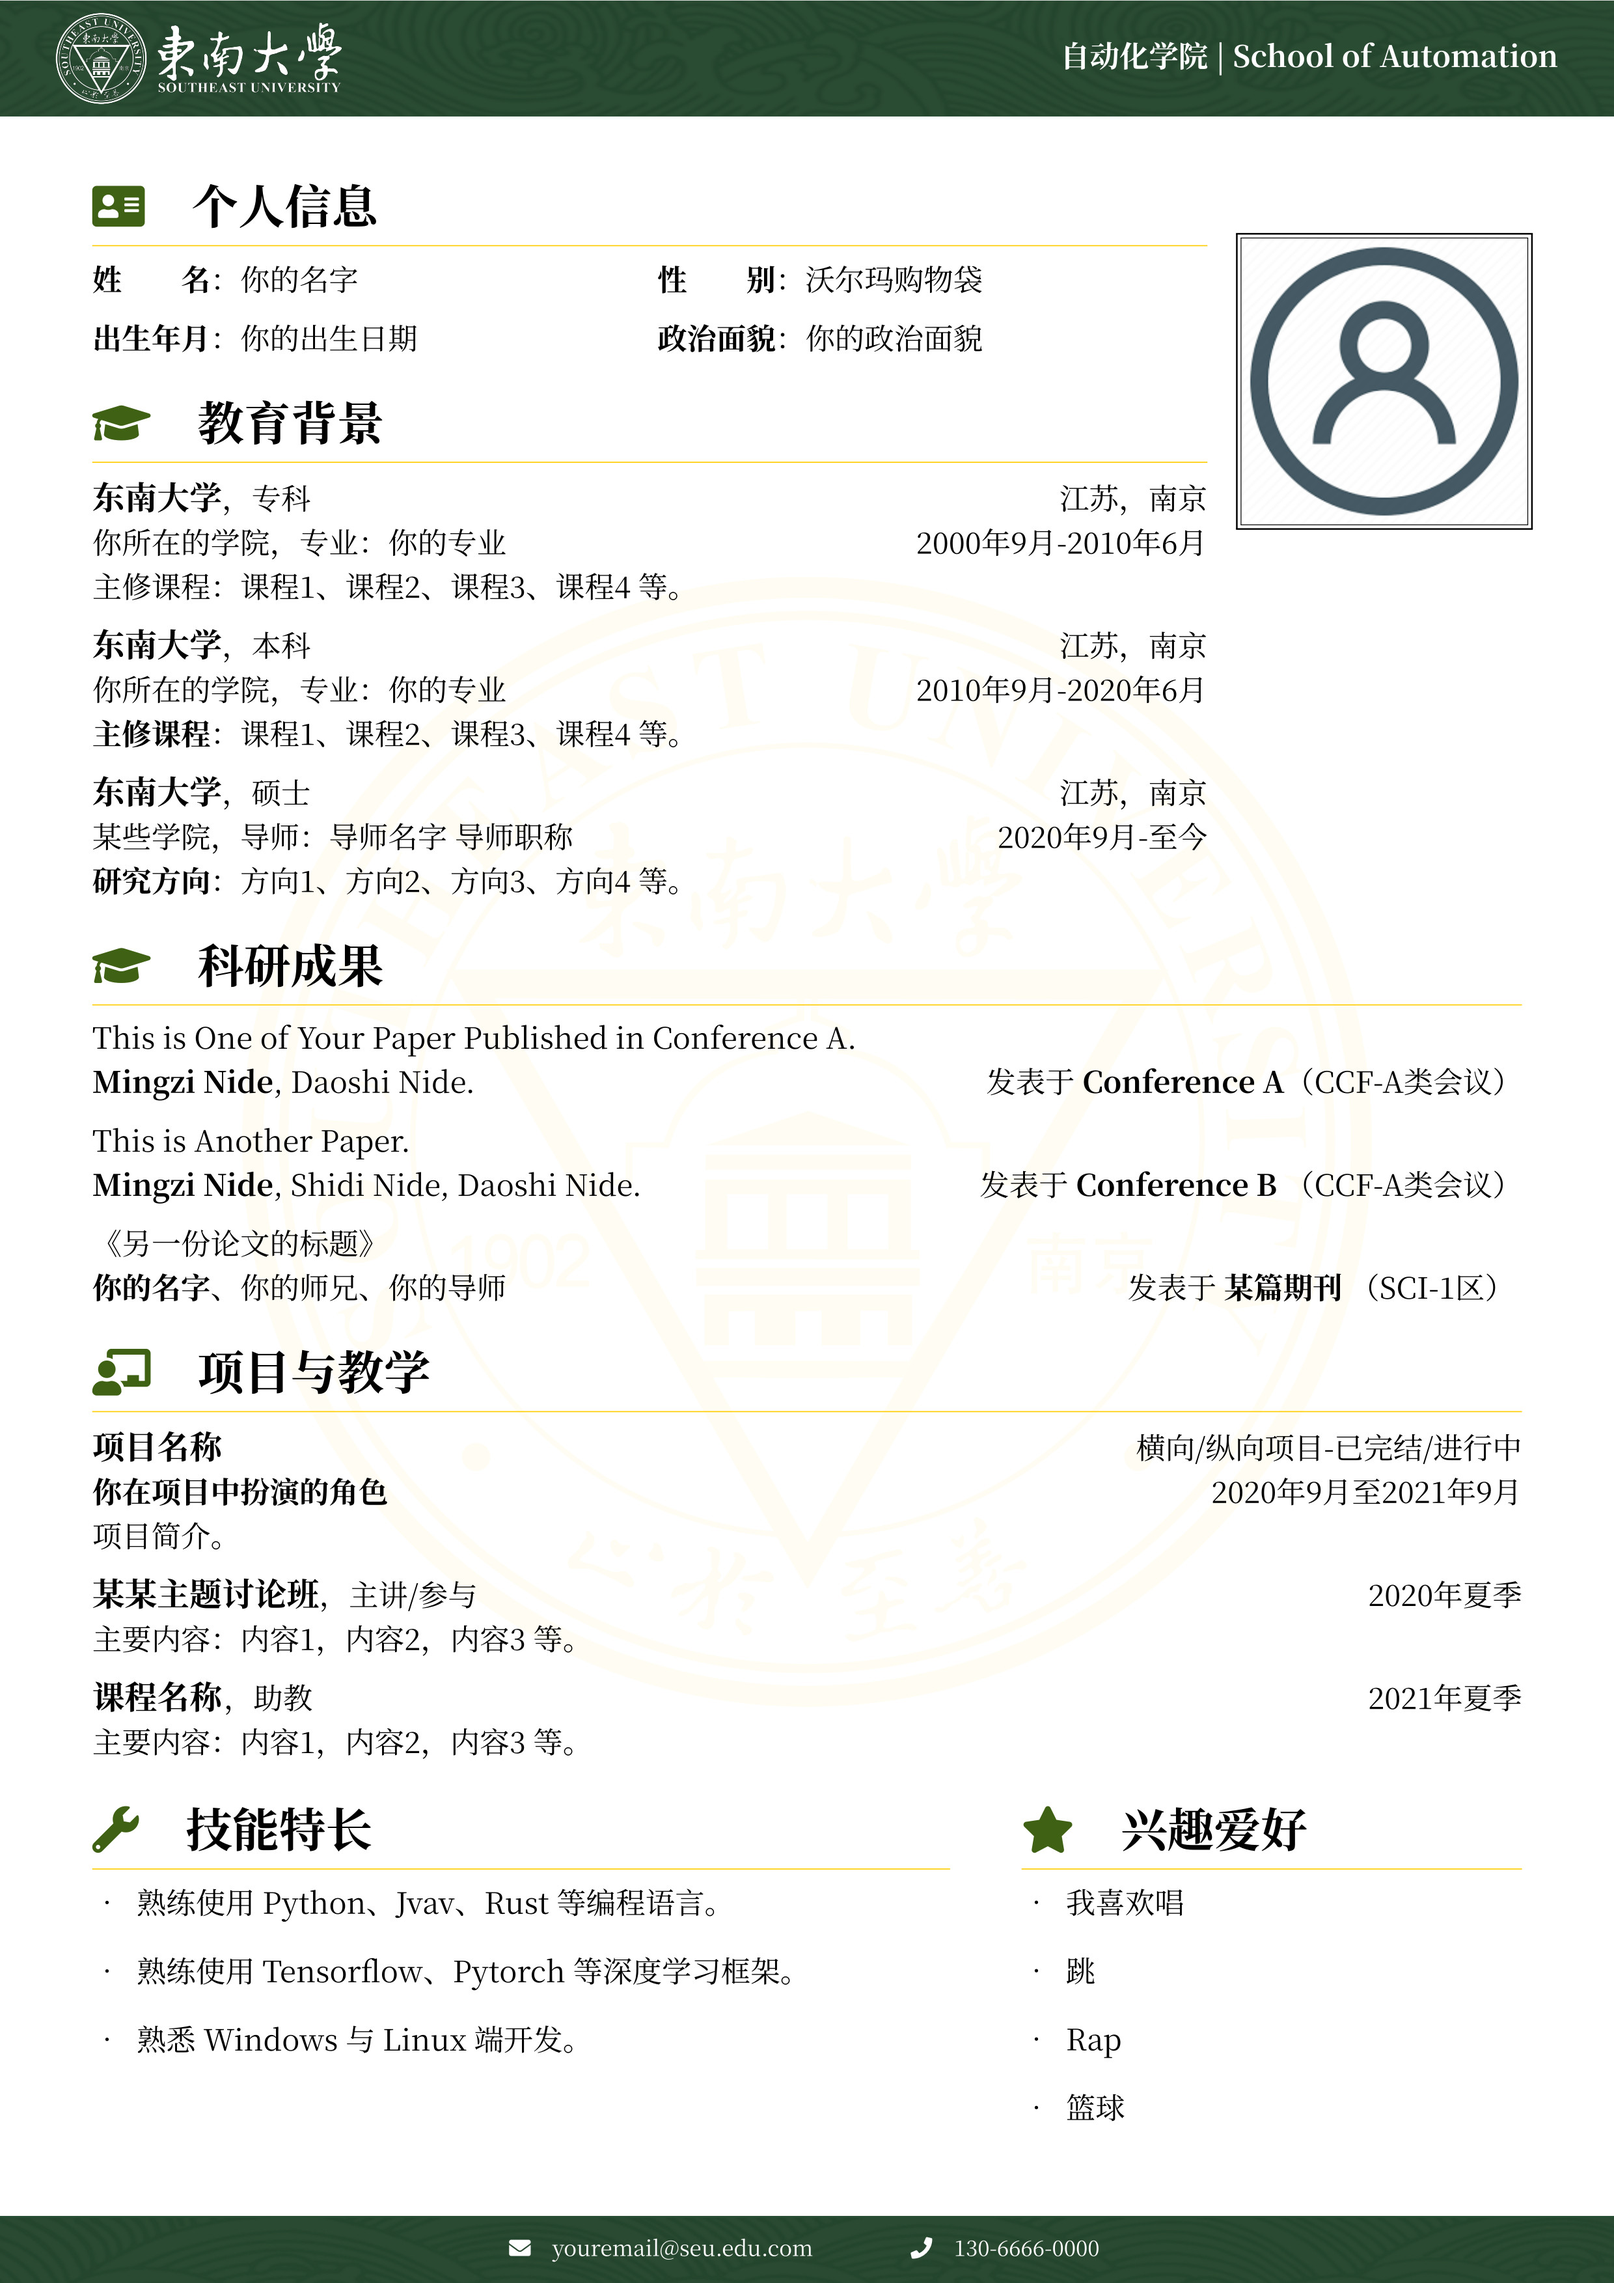
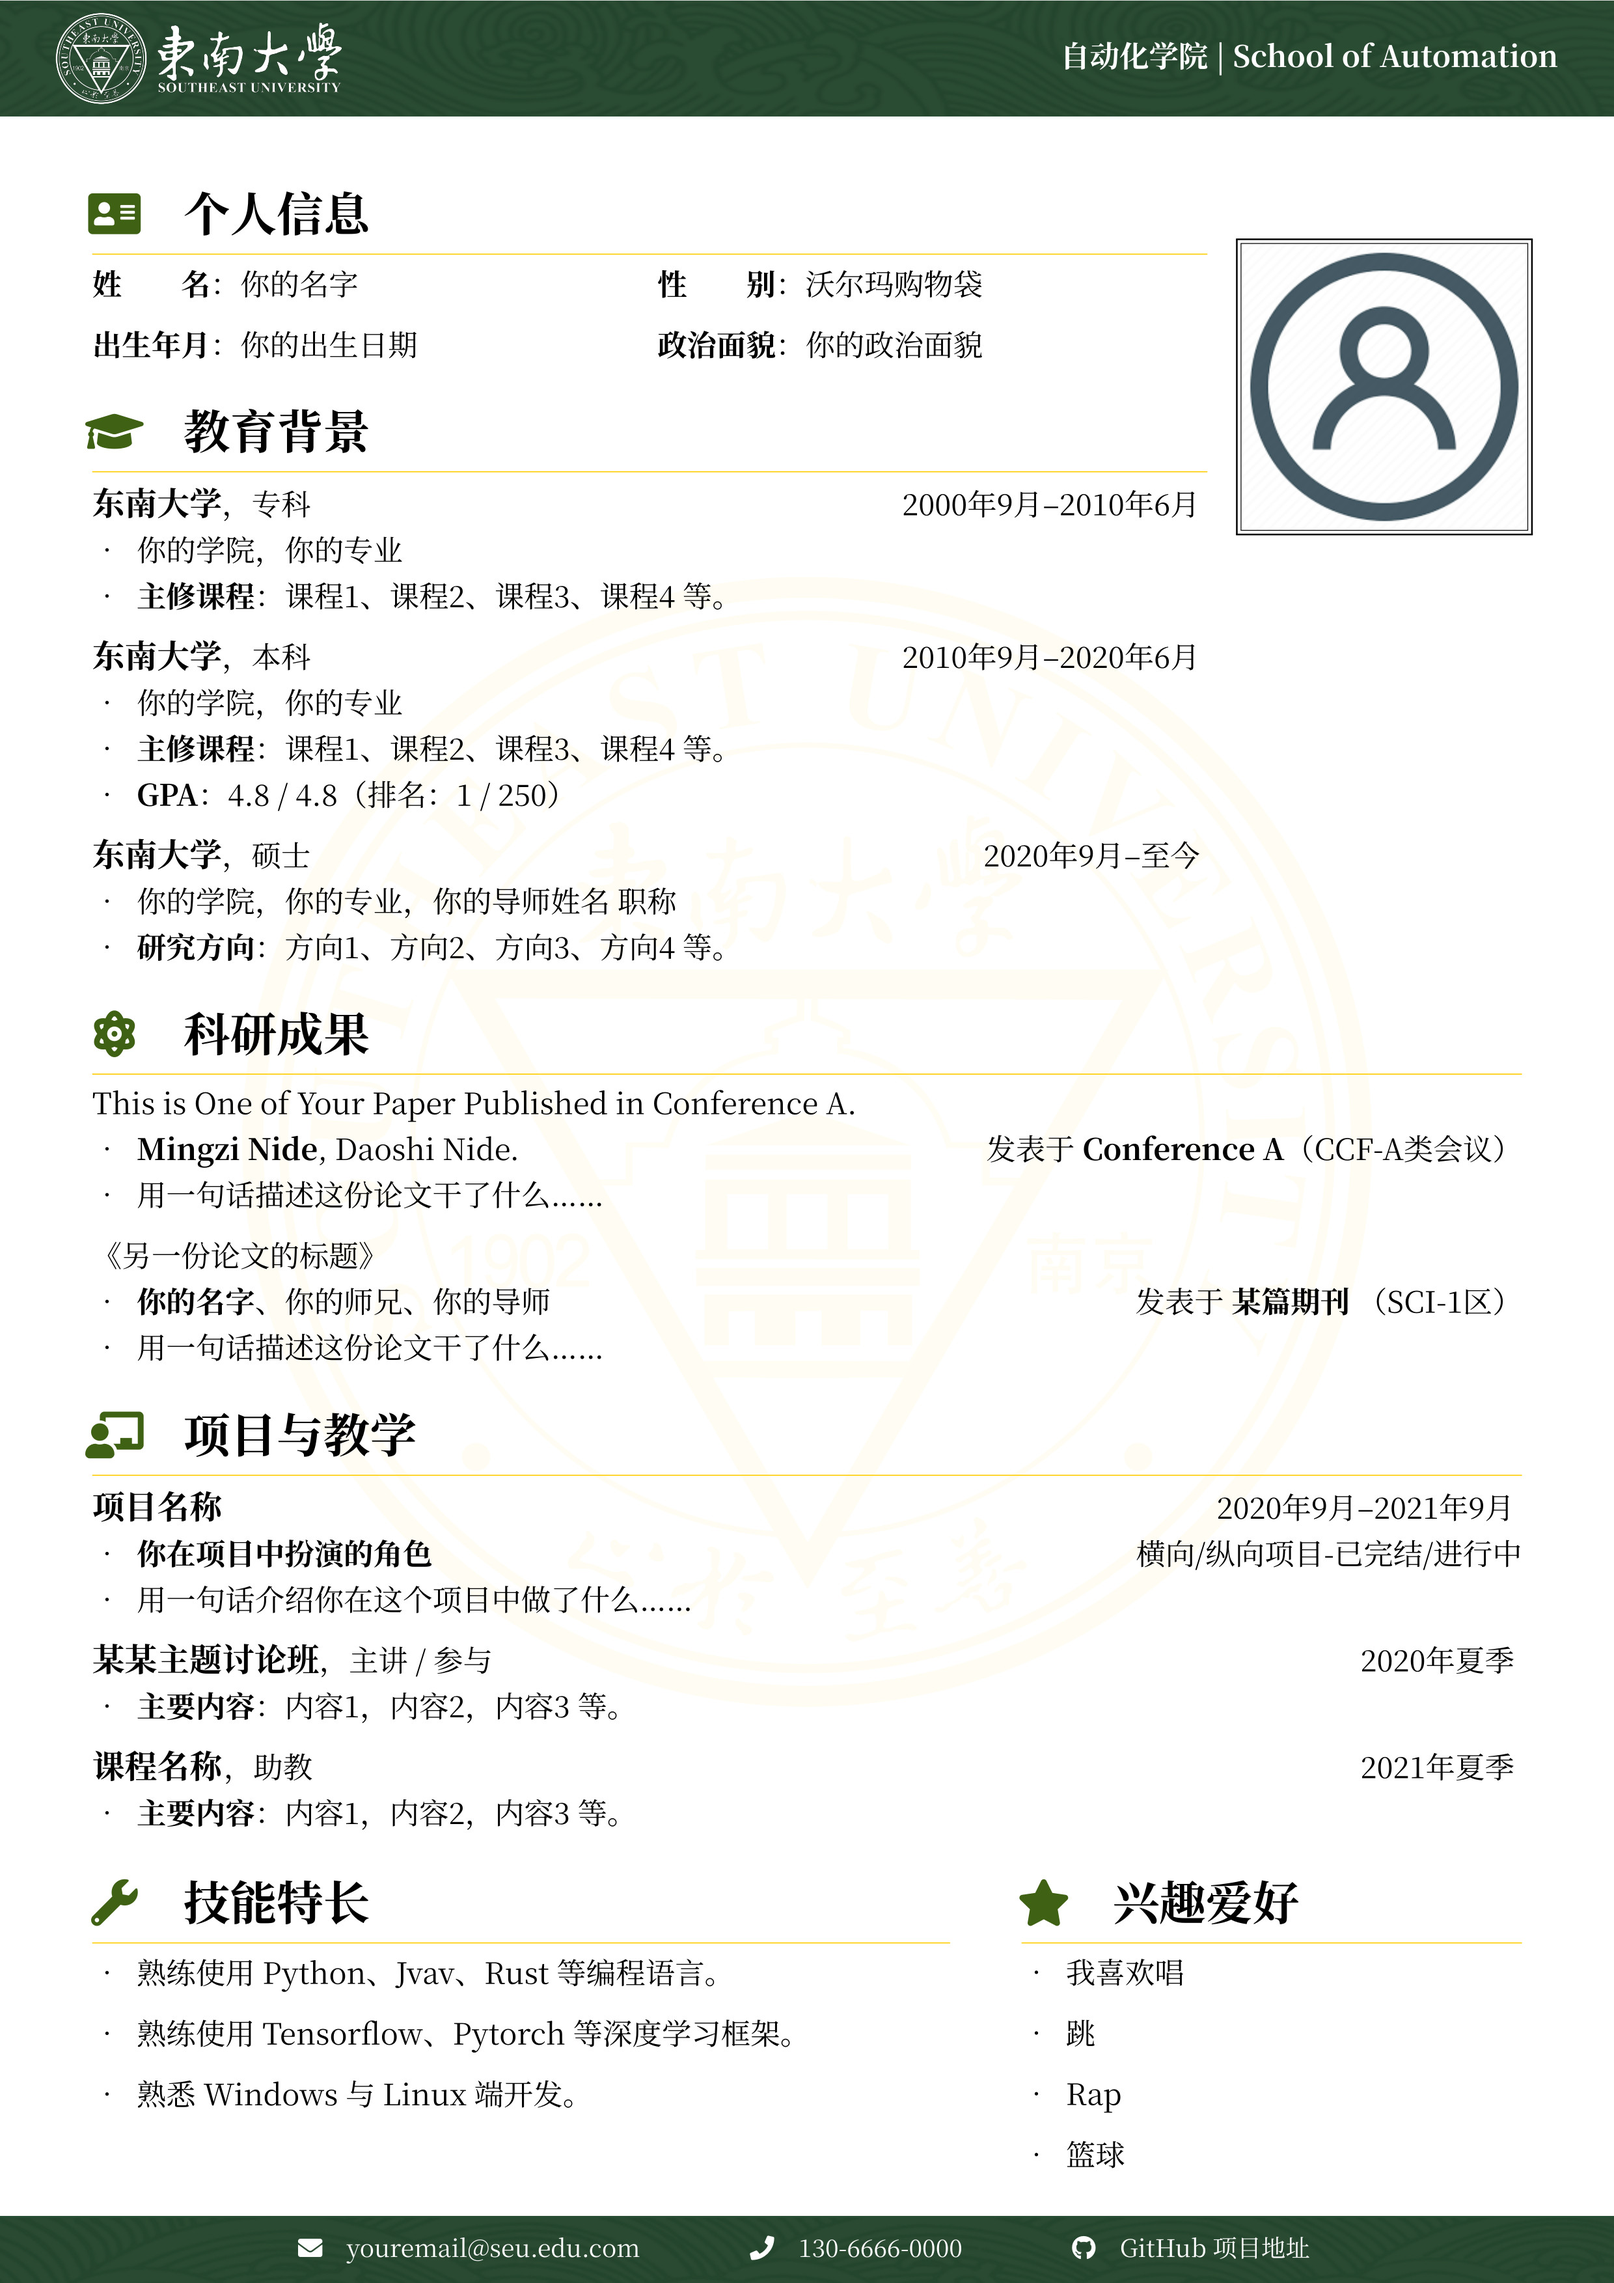
清理了没有使用的 package；使用 itemize 整理项目描述；解决了编译时的 warnings

diff --git a/main.tex b/main.tex
@@ -1,27 +1,17 @@
 \documentclass[11pt]{article}
-\usepackage{bookmark}
+
 \usepackage{hyperref}
-\usepackage{multicol}
 \usepackage{xcolor}
 \usepackage{calc}
 \usepackage{graphicx}
 \usepackage{tikz}
 \usepackage{fontspec}
-\usepackage{relsize}
-\usepackage{xspace}
 \usepackage{fontawesome5}
 \usepackage{titlesec}
 \usepackage{enumitem}
-\usepackage{siunitx}
-\usepackage{amssymb}
-\usepackage{tabularx}
-\usepackage{multicol}
 \usepackage{fancybox}
-\usepackage{float}
-\usepackage{url}
+
 \hypersetup{hidelinks}
-\urlstyle{tt}
-\usetikzlibrary{calc}
 
 %%%%%%%%%%%%%%%%%%%%
 % 设置
@@ -29,17 +19,19 @@
 
 \setlength{\parindent}{0pt}					% 取消全局段落缩进
 \pagenumbering{gobble}						% 取消页码显示
-\setlist[itemize]{leftmargin=*}		        % 取消 itemize 的左边距
+\setlist[itemize]{nosep                     % 取消 itemize 的默认间距
+    , before={\vspace*{-\parskip}}          % 取消 itemize 和后续段落之间的空白
+    , leftmargin=*}		                    % 取消 itemize 的左边距
 \setlist[enumerate]{leftmargin=*}	        % 取消 enumerate 的左边距
-\renewcommand{\arraystretch}{1.2}           % 设置表格行间距 1.2 倍
-\linespread{1.2}                            % 设置正文行间距 1.2 倍
+\renewcommand{\arraystretch}{1.2}           % 设置表格行间距
+\linespread{1.25}                           % 设置正文行间距
 
 \titleformat{\section}					    % 将原标题前面的数字取消了
   {\LARGE\bfseries\raggedright} 		      % 字体改为 LARGE，bold，左对齐
   {}{0em}                      			  % 可用于添加全局标题前缀
   {}                           			  % 可用于添加代码
   [{\color{secondary_color}\titlerule}]     % 标题下方加一条线
-\titlespacing*{\section}{0cm}{*1.2}{*1.5}	% 标题左边留白，上方 1.2 倍，下方 1.5 倍
+\titlespacing*{\section}{0cm}{*1.2}{*1.2}	% 标题左边留白，上方，下方
 
 \usepackage[
 	a4paper,
@@ -61,6 +53,9 @@
 \definecolor{primary_color}{RGB}{63, 97, 21}    % 松针绿
 \definecolor{secondary_color}{RGB}{255, 204, 0} % 金陵黄
 
+\newlength{\iconwidth}
+\setlength{\iconwidth}{1.5em}                   % 设置 section 标题部分图标占用的宽度
+
 %%%%%%%%%%%%%%%%%%%%
 % 文章内容
 %%%%%%%%%%%%%%%%%%%%
@@ -72,8 +67,8 @@
 \newcommand{\contact}{
     % 根据个人喜好选择字号
     % \small                % 小
-    % \footnotesize         % 更小
-    \scriptsize             % 再小一号
+    \footnotesize           % 更小
+    % \scriptsize           % 再小一号
     \textcolor{white}{
         % 邮箱
         \faEnvelope \quad \href{mailto:youremail@seu.edu.cn}{youremail@seu.edu.com}
@@ -81,8 +76,8 @@
         % 手机号
         \faPhone \quad  130-6666-0000
         % 别的联系方式，如微信、GitHub等
-        % \hspace{4em}
-        % \faGithub \quad \href{https://github.com/xxxx}{https://github.com/xxxx}
+        \hspace{4em}
+        \faGithub \quad \href{https://github.com/Exception0x0194/SEU-CV}{GitHub 项目地址}
     }
 }
 
@@ -132,15 +127,15 @@
         % 个人信息
         % \faGraduationCap这类\fa开头的都是font awesome里的logo，想换成其他logo的话，可以看一下附带的fontawsome.pdf，自行替换。
         \begin{minipage}[t]{\textwidth}
-        \section{\makebox[\widthof{\faAddressCard}][c]{\color{primary_color}{\faAddressCard}}\quad 个人信息}
+        \section[个人信息]{\makebox[\iconwidth][c]{\color{primary_color}{\faAddressCard}}\quad 个人信息}
         \begin{minipage}[t]{0.5\textwidth}
-            \textbf{姓\ \ \ \ \ \ \ \ 名}：你的名字
+            \textbf{姓\qquad 名}：你的名字
             
             \vspace{0.5em}
             \textbf{出生年月}：你的出生日期
         \end{minipage}
         \begin{minipage}[t]{0.35\textwidth}
-            \textbf{性\ \ \ \ \ \ \ \ 别}：沃尔玛购物袋
+            \textbf{性\qquad 别}：沃尔玛购物袋
             
             \vspace{0.5em}
             \textbf{政治面貌}：你的政治面貌
@@ -150,21 +145,29 @@
 
         % 教育背景
         \begin{minipage}[t]{\textwidth}
-        \section{\makebox[\widthof{\faGraduationCap}][c]{\color{primary_color}{\faGraduationCap}}\quad 教育背景}
+        \section[教育背景]{\makebox[\iconwidth][c]{\color{primary_color}{\faGraduationCap}}\quad 教育背景}
         
-        {\large \textbf{东南大学}}，专科 \hfill {江苏，南京} \\
-        {{你所在的学院}}，专业：你的专业 \hfill {2000年9月-2010年6月} \\
-        {主修课程}：课程1、课程2、课程3、课程4\ 等。
-        
-        \vspace{0.5em}
-        {\large \textbf{东南大学}}，本科 \hfill {江苏，南京} \\
-        {{你所在的学院}}，专业：你的专业 \hfill {2010年9月-2020年6月} \\
-        \textbf{主修课程}：课程1、课程2、课程3、课程4\ 等。
+        {\large \textbf{东南大学}}，专科 \hfill 2000年9月--2010年6月
+        \begin{itemize}
+            \item 你的学院，你的专业
+            \item \textbf{主修课程}：课程1、课程2、课程3、课程4\ 等。
+        \end{itemize}
         
         \vspace{0.5em}
-        {\large \textbf{东南大学}}，硕士 \hfill {江苏，南京} \\
-        {{某些学院}}，导师：\href{导师的个人主页.site}{导师名字}\ 导师职称 \hfill {2020年9月-至今} \\
-        \textbf{研究方向}：方向1、方向2、方向3、方向4\ 等。
+        {\large \textbf{东南大学}}，本科 \hfill 2010年9月--2020年6月
+        \begin{itemize}
+            \item 你的学院，你的专业
+            \item \textbf{主修课程}：课程1、课程2、课程3、课程4\ 等。
+            \item \textbf{GPA}：4.8 / 4.8（排名：1 / 250）
+        \end{itemize}
+        
+        \vspace{0.5em}
+        {\large \textbf{东南大学}}，硕士 \hfill 2020年9月--至今
+        \begin{itemize}
+            \item 你的学院，你的专业，你的导师姓名\ 职称
+            \item \textbf{研究方向}：方向1、方向2、方向3、方向4\ 等。
+        \end{itemize}
+        
         \vspace{1.2em}
         \end{minipage}
     \end{minipage}
@@ -178,47 +181,55 @@
 
     \begin{minipage}[t]{\textwidth}
     % 科研成果
-    \section{\makebox[\widthof{\faGraduationCap}][c]{\color{primary_color}{\faGraduationCap}}\quad 科研成果}
+    \section[科研成果]{\makebox[\iconwidth][c]{\color{primary_color}{\faAtom}}\quad 科研成果}
 
     % 科研著作（研究生）
-    This is One of Your Paper Published in Conference A. \\
-    \textbf{Mingzi Nide}, Daoshi Nide. \hfill 
-    发表于 \textbf{Conference A}（CCF-A类会议） 
+    This is One of Your Paper Published in Conference A.
+    \begin{itemize}
+        \item \textbf{Mingzi Nide}, Daoshi Nide. \hfill 发表于 \textbf{Conference A}（CCF-A类会议）
+        \item 用一句话描述这份论文干了什么\dots\dots
+    \end{itemize}
 
     \vspace{0.5em}
-    This is Another Paper. \\
-    \textbf{Mingzi Nide}, Shidi Nide, Daoshi Nide. \hfill 
-    发表于 \textbf{Conference B} （CCF-A类会议）
-
-    \vspace{0.5em}
-    《另一份论文的标题》\\
-    \textbf{你的名字}、你的师兄、你的导师 \hfill 
-    发表于 \textbf{某篇期刊} （SCI-1区）
+    《另一份论文的标题》
+    \begin{itemize}
+        \item  \textbf{你的名字}、你的师兄、你的导师 \hfill 发表于 \textbf{某篇期刊} （SCI-1区）
+        \item 用一句话描述这份论文干了什么\dots\dots
+    \end{itemize}
+    
     \vspace{1.2em}
     \end{minipage}
 
     \begin{minipage}[t]{\textwidth}
     % 项目经历\科研经历\项目与教学（标题请根据需要修改）
-    \section{\makebox[\widthof{\faChalkboardTeacher}][c]{\color{primary_color}{\faChalkboardTeacher}}\quad 项目与教学}
+    \section[项目与教学]{\makebox[\iconwidth][c]{\color{primary_color}{\faChalkboardTeacher}}\quad 项目与教学}
     
-    {\large{\textbf{项目名称}}} \hfill {横向/纵向项目-已完结/进行中}\\
-    \textbf{你在项目中扮演的角色} \hfill 2020年9月至2021年9月\\
-    项目简介。
+    {\large \textbf{项目名称}} \hfill 2020年9月--2021年9月
+    \begin{itemize}
+        \item \textbf{你在项目中扮演的角色} \hfill 横向/纵向项目-已完结/进行中
+        \item 用一句话介绍你在这个项目中做了什么\dots\dots
+    \end{itemize}
 
     \vspace{0.5em}
-    {\large{\textbf{某某主题讨论班}}}，主讲/参与 \hfill {2020年夏季}\\
-    主要内容：内容1，内容2，内容3\ 等。
-    
+    {\large \textbf{某某主题讨论班}}，主讲 / 参与 \hfill 2020年夏季
+    \begin{itemize}
+        \item \textbf{主要内容}：内容1，内容2，内容3\ 等。
+    \end{itemize}
+
     \vspace{0.5em}
-    {\large{\textbf{课程名称}}}，助教 \hfill {2021年夏季}\\
-    主要内容：内容1，内容2，内容3\ 等。
+    {\large \textbf{课程名称}}，助教 \hfill 2021年夏季
+    \begin{itemize}
+        \item \textbf{主要内容}：内容1，内容2，内容3\ 等。
+    \end{itemize}
+    
     \vspace{1.2em}
     \end{minipage}
     
     % 如果每行的内容不是很多，可以考虑使用 minipage，将内容分列展示
     \begin{minipage}[t]{0.6\textwidth}
-        \section{\makebox[\widthof{\faWrench}][c]{\color{primary_color}{\faWrench}}\quad 技能特长}
+        \section[技能特长]{\makebox[\iconwidth][c]{\color{primary_color}{\faWrench}}\quad 技能特长}
         \begin{itemize}
+        \setlength{\itemsep}{0.5em}
             \item 熟练使用 Python、Jvav、Rust 等编程语言。
             \item 熟练使用 Tensorflow、Pytorch 等深度学习框架。
             \item 熟悉 Windows 与 Linux 端开发。
@@ -226,8 +237,9 @@
     \end{minipage}
     \hfill
     \begin{minipage}[t]{0.35\textwidth}
-        \section{\makebox[\widthof{\faStar}][c]{\color{primary_color}{\faStar}}\quad 兴趣爱好}
+        \section[兴趣爱好]{\makebox[\iconwidth][c]{\color{primary_color}{\faStar}}\quad 兴趣爱好}
         \begin{itemize}
+        \setlength{\itemsep}{0.5em}
             \item 我喜欢唱
             \item 跳
             \item Rap

diff --git a/readme.md b/readme.md
@@ -9,8 +9,8 @@
 在原有内容的基础上进行了修改：
 
 - 更改了照片和个人信息栏位的相对位置，可以插入更大的照片
+- 更改了部分段落的格式；使用 `itemize` 整理每个项目的说明
 - 更改了校徽图标（参考 https://github.com/seumxc/SEU-Logo）
-- 更改了部分段落的格式
 - 调整了装饰图案的色彩风格
 - 更改了字体（`NotoSefirSC`，已内置在项目文件夹中）
 
